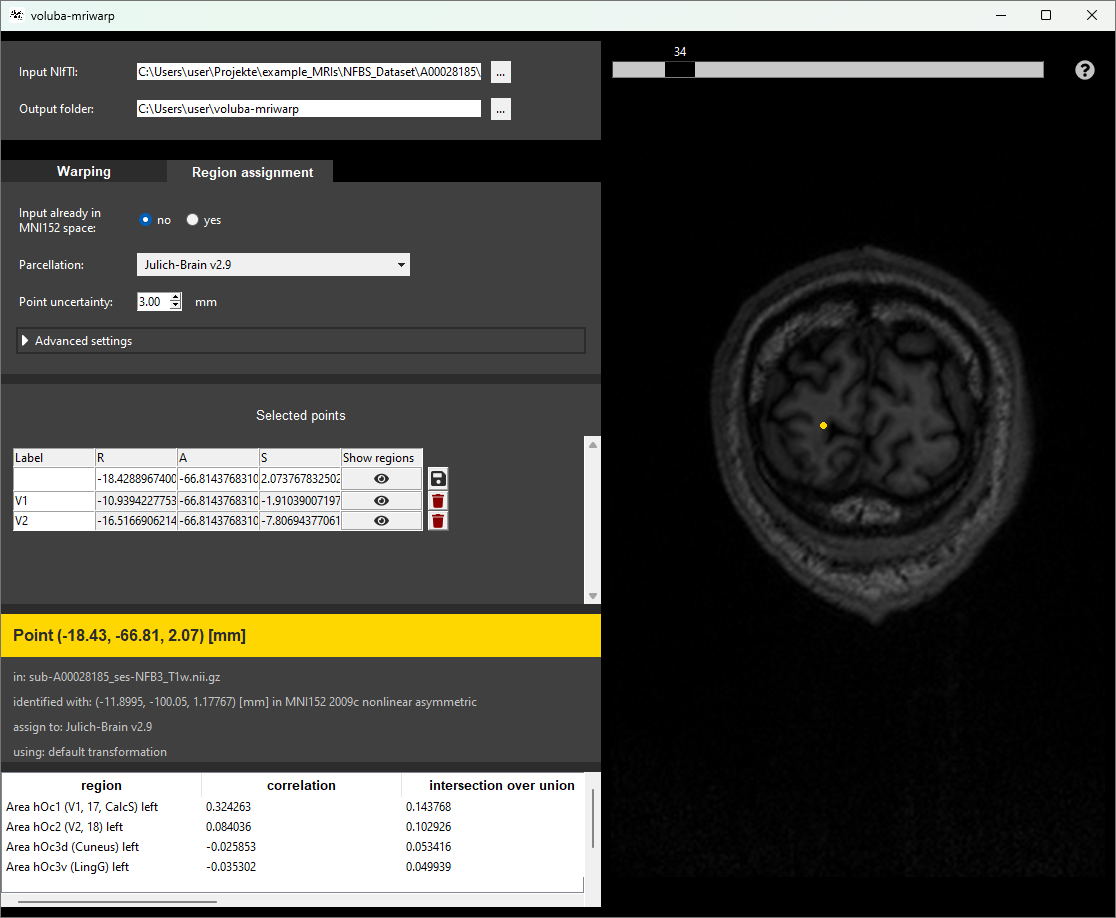
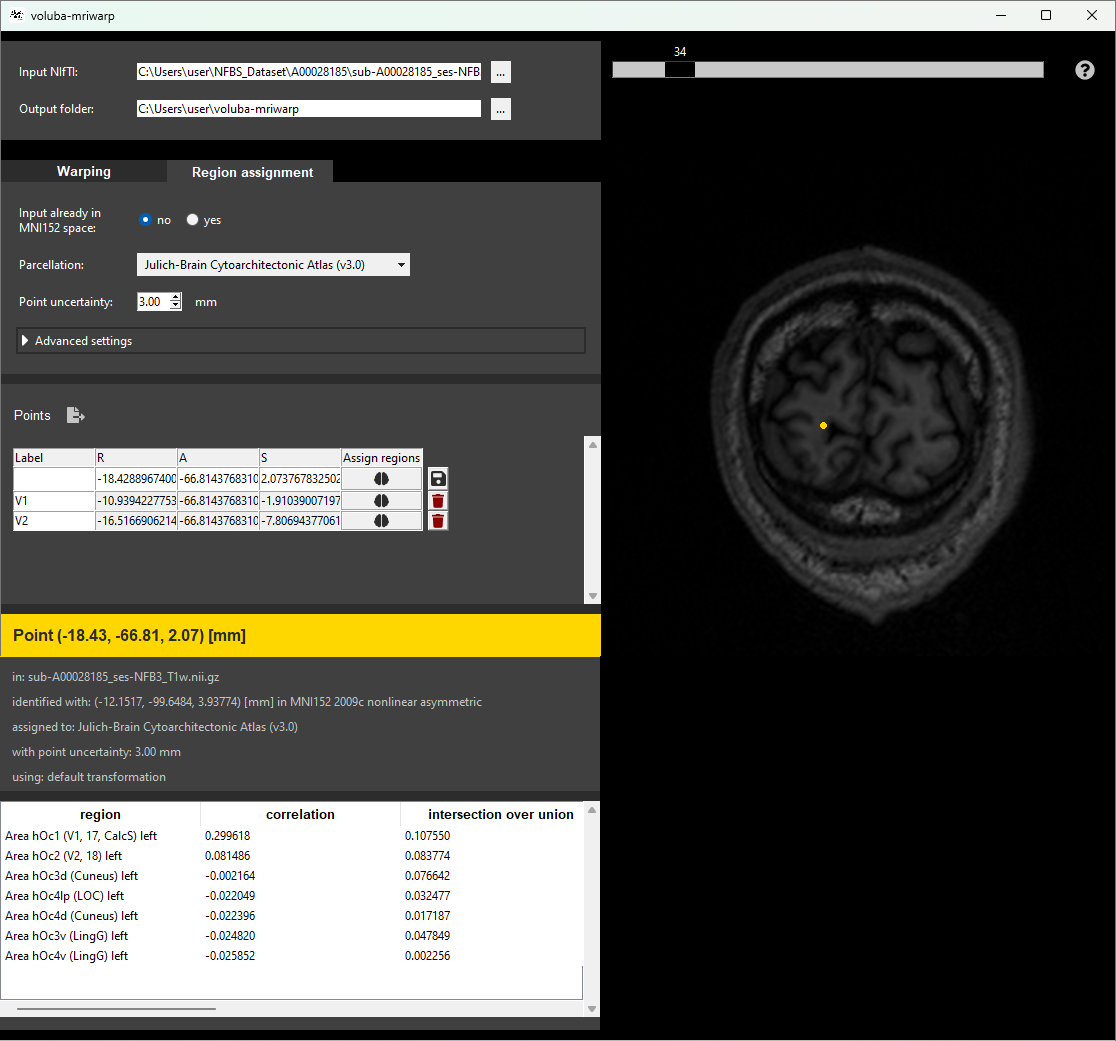
Update documentation

diff --git a/docs/tutorial.md b/docs/tutorial.md
@@ -4,7 +4,7 @@ In this tutorial, you will warp an example MRI scan to [MNI ICBM 152 2009c Nonli
 
 ## Get the example dataset
 
-Let's start the tutorial by downloading an example dataset. We use a sample from the publicly available [NFBS Skull-Stripped Repository](http://preprocessed-connectomes-project.org/NFB_skullstripped/) and choose the T1-weighted MRI scan `sub-A00028185_ses-NFB3_T1w.nii.gz` of subject `A00028185`. This scan contains the subject's whole brain including the skull. 
+Let's start the tutorial by downloading an example dataset. We use a sample from the publicly available [NFBS Skull-Stripped Repository](http://preprocessed-connectomes-project.org/NFB_skullstripped/) and choose the T1-weighted MRI scan `sub-A00028185_ses-NFB3_T1w.nii.gz` of subject `A00028185`. This scan contains the subject's whole-brain including the skull. 
 
 * Download the NFBS skull-stripped images from [here](http://preprocessed-connectomes-project.org/NFB_skullstripped/).
 * Unpack the .tar.gz archive.
@@ -16,7 +16,7 @@ Let's start the tutorial by downloading an example dataset. We use a sample from
 
 To be able to perform an analysis in the anatomical context of the atlas we first need to register the input MRI scan to the standardized MNI152 space.
 
-* Launch _voluba-mriwarp_
+* Launch _voluba-mriwarp_.
 * Choose `<path_to_dataset>/NFBS_Dataset/A00028185/sub-A00028185_ses-NFB3_T1w.nii.gz` as <mark>Input NIfTI</mark>.  
 You can choose this file from the file explorer by clicking <mark>...</mark>.
 * Set the <mark>Output folder</mark> to the directory where you want the warping results to be saved. We keep the default location `<path_to_your_home>/voluba-mriwarp`.
@@ -30,11 +30,11 @@ You can choose this file from the file explorer by clicking <mark>...</mark>.
 
 ## Analyze a point in the atlas context
 
-After successful warping _voluba-mriwarp_ can now use the resulting transformation to warp points of the input MRI scan to MNI152 space. In this way, it can assign brain regions of the EBRAINS Human Atlas to these points through the siibra toolsuite. 
+After successful warping _voluba-mriwarp_ can now use the resulting transformation to warp points of the input MRI scan to MNI152 space. In this way, it can assign brain regions of the EBRAINS Human Brain Atlas to these points through the siibra toolsuite. 
 
 * Switch to the <mark>Analysis</mark> tab.
 * Keep the setting for <mark>Input already in MNI152 space</mark> as the example MRI scan shows the subject in input space and not in MNI152 space.
-* Leave the parcellation as is because we want to assign the point to brain regions of the `Julich-Brain Cytoarchitectonic Atlas (v3.0)`.
+* Leave the parcellation as is because we want to assign the point to brain regions of the [Julich-Brain Cytoarchitectonic Atlas (v3.0)](https://search.kg.ebrains.eu/instances/7ad727a1-537d-4f80-a69b-ac8b184a823c).
 * Set the <mark>Point uncertainty</mark> to 3 mm. The reason for this is that coordinates are typically not exact but have several millimeters of uncertainty (especially after warping).
     
     ![image](images/tutorial_settings.png)
@@ -53,16 +53,23 @@ After successful warping _voluba-mriwarp_ can now use the resulting transformati
 
 ## Use the results
 
+Now that we investigated which brain regions the selected point correlates with, we can perform further analysis based on these regions. Besides getting a quick overview with [siibra-explorer](https://atlases.ebrains.eu/viewer/#/) _voluba-mriwarp_ offers to export the extended analysis to a PDF report.
+
+**Quick overview**  
+
 * Double-click a row in the table to open the according region in a browser window in siibra-explorer. This allows you to get a quick overview of more details about an assigned region and linked multimodal data features. 
 
     ![image](images/hOc1.png)
 <br/><br/>
 
-* Click on the save button next to the brain icon to note the point for export and thus retain your analysis performed with _voluba-mriwarp_.
-* Click ![icon](images/tutorial_export_btn.png) next to <mark>Points</mark> to export your analysis to a PDF report for all saved points. 
+**Detailed report**
+
+* Go back to _voluba_mriwarp_.
+* Click on the save button next to the brain icon in the <mark>Points</mark> table to note the selected point for further analysis and PDF export.
+* Select ![icon](images/tutorial_export_btn.png) next to <mark>Points</mark> to define the analysis and create the PDF report for all saved points. 
 * Keep the <mark>PDF location</mark> as is to save the PDF to the output folder. If you would like to choose a different location, click on <mark>...</mark> to select a folder and filename.
-* Set the filter to `input containedness >= 0.5` as we are only interested in regions in which the saved point is likely contained. This will only include brain regions to the report that fulfill the requirement for the assignment. 
-* Choose between different multimodal data features that complement your analysis. We are interested in cell densities, connectivity and receptor densities. For receptor density you need to select specific receptors and for connectivity a cohort is required. For this tutorial, we choose `GABAA` and `GABAB` as well as the `1000BRAINS` study.
+* Set the filter to `input containedness >= 0.5` as, in this tutorial, we are only interested in regions in which the saved point is likely contained. This will only include brain regions to the report that fulfill the requirement for the assignment. Feel free to adjust the filter at your will.
+* Choose between different multimodal data features that complement your analysis. Here, we are interested in cell densities, connectivity and receptor densities. For receptor density you need to select specific receptors and for connectivity a cohort is required. For this tutorial, we choose `GABAA` and `GABAB` as well as the `1000BRAINS` study.
 * Use the <mark>Export</mark> button to initialize the creation of the PDF report.
 
     ![image](images/tutorial_export.png)

diff --git a/docs/index.md b/docs/index.md
@@ -4,16 +4,16 @@
 
 voluba (**Volu**metric **B**rain **A**nchoring) offers tools to connect volumetric imaging data to multilevel atlases and in this way makes it accessible for analysis with the siibra toolsuite.
 
-_voluba-mriwarp_ is a desktop application that integrates whole brain T1-weighted MRI scans into the anatomical context of the [EBRAINS Human Brain Atlas](https://www.ebrains.eu/tools/human-brain-atlas). It incorporates all required components like skull stripping, registration to [MNI ICBM 152 2009c Nonlinear Asymmetric space](https://www.bic.mni.mcgill.ca/ServicesAtlases/ICBM152NLin2009), and detailed analysis with the siibra toolsuite. The corresponding functionalities are provided via open-source tools like [HD-BET](https://github.com/MIC-DKFZ/HD-BET)[^1], [ANTs](http://stnava.github.io/ANTs/) and [siibra-python](https://github.com/FZJ-INM1-BDA/siibra-python). _voluba-mriwarp_ is primarily designed for Windows 10 but can also be executed on Linux.
-
-Warping brain data to a standardized space like MNI152 enables anchoring of whole brain MRI scans to atlas volumes like [BigBrain](https://julich-brain-atlas.de/atlas/bigbrain). However, reasonable registration requires various steps that need optimization effort. _voluba-mriwarp_ aims to simplify this workflow. With this application, you avoid installing multiple tools and tweaking parameters for a proper registration result. Instead, _voluba-mriwarp_ is an easy-to-install and easy-to-use tool combining all necessary steps into one pipeline. 
+_voluba-mriwarp_ is a desktop application that integrates whole-brain T1-weighted MRI scans into the anatomical context of the [EBRAINS Human Brain Atlas](https://www.ebrains.eu/tools/human-brain-atlas). It incorporates all required components like skull stripping, registration to [MNI ICBM 152 2009c Nonlinear Asymmetric space](https://www.bic.mni.mcgill.ca/ServicesAtlases/ICBM152NLin2009), and detailed analysis with the siibra toolsuite. The corresponding functionalities are provided via open-source tools like [HD-BET](https://github.com/MIC-DKFZ/HD-BET)[^1], [ANTs](http://stnava.github.io/ANTs/) and [siibra-python](https://github.com/FZJ-INM1-BDA/siibra-python). _voluba-mriwarp_ is primarily designed for Windows 10 but can also be executed on Linux.
 
 <div class="admonition info">
 <p class="admonition-title">Your data remains on your computer</p>
 <p>We designed <em>voluba-mriwarp</em> as a desktop application. Therefore, the input MRI dataset will not be uploaded to any online services. It remains only on your local computer.</p>
 </div>
 
-_voluba-mriwarp_ applies a set of predefined parameters to remove the skull and warp the input brain scan to MNI152 space. You can utilize the warping results in _voluba-mriwarp_ to interactively make a probabilistic assignment of coordinates in the input space to brain regions of the [EBRAINS Human Brain Atlas](https://www.ebrains.eu/tools/human-brain-atlas). Hence, you can estimate the probability of a brain region occurring at the selected coordinate. To explore even more information about a cytoarchitectonic area, you can access [siibra-explorer](https://atlases.ebrains.eu/viewer/human) through the application.
+Warping brain data to a standardized space like MNI152 enables anchoring of whole-brain MRI scans to atlas volumes and therefore facilitates analysis in a detailed anatomical context. However, reasonable registration requires various steps that need optimization effort. _voluba-mriwarp_ aims to simplify this workflow. With this application, you avoid installing multiple tools and tweaking parameters for a proper registration result. Instead, _voluba-mriwarp_ is an easy-to-install and easy-to-use tool combining all necessary steps into one pipeline. 
+
+_voluba-mriwarp_ applies a set of predefined parameters to remove the skull and warp the input brain scan to MNI152 space. You can utilize the warping results in _voluba-mriwarp_ to interactively analyze points by making a probabilistic assignment of coordinates in the input space to brain regions of the [EBRAINS Human Brain Atlas](https://www.ebrains.eu/tools/human-brain-atlas). To get an overview of more information about a brain region, you can access [siibra-explorer](https://atlases.ebrains.eu/viewer/human) through the application. For further analysis, _voluba-mriwarp_ offers to export the anatomical assignments together with linked multimodal data features like receptor densities, cell distributions or brain connectivity.
 
 ![image_centered](images/teaser2.png)
 

diff --git a/docs/workflow.md b/docs/workflow.md
@@ -1,6 +1,6 @@
 # General workflow
 
-_voluba-mriwarp_ consists of two panels. The side panel on the left is for [warping](warping.md) the input T1-weighted MRI scan to MNI152 space and displaying the results of the [analysis in the atlas context](analysis.md). The [viewer](viewer.md) on the right side is for displaying and inspecting the input MRI scan.
+_voluba-mriwarp_ consists of two panels. The side panel on the left is for [warping](warping.md) the input T1-weighted MRI scan to [MNI ICBM 152 2009c Nonlinear Asymmetric space](https://www.bic.mni.mcgill.ca/ServicesAtlases/ICBM152NLin2009) and displaying the results of the [analysis in the atlas context](analysis.md). The [viewer](viewer.md) on the right side is for displaying and inspecting the input MRI scan.
 
 !!! info
     When running _voluba-mriwarp_ for the first time, the startup may take a few minutes as siibra components need to be fetched.
@@ -10,8 +10,8 @@ The general workflow for _voluba-mriwarp_ can be summarized as follows:
 ![icon](images/1.png) Choose an **input MRI scan**.  
 ![icon](images/2.png) Choose an **output folder** for the warping results.  
 ![icon](images/3.png) **Warp** the input MRI to MNI152 space.  
-![icon](images/4.png) **Click or enter a coordinate** to perform an analysis in the atlas context.  
-![icon](images/5.png) Get a **more detailed overview** about a specific region in [siibra-explorer](https://atlases.ebrains.eu/viewer/go/human).  
-![icon](images/6.png) **Export** assigned regions together with linked data features to a PDF report for extended analysis.
+![icon](images/4.png) **Click or enter a coordinate** to perform an analysis in the atlas context based on region assignment.  
+![icon](images/5.png) Get a **quick overview** about an assigned brain region in [siibra-explorer](https://atlases.ebrains.eu/viewer/go/human).  
+![icon](images/6.png) **Export** assigned brain regions together with linked data features to a PDF report for extended analysis.
 
 ![image_centered](images/workflow4.png)

diff --git a/docs/warping.md b/docs/warping.md
@@ -1,6 +1,6 @@
 # Registration to MNI152 space
 
-In general, the goal of warping is to align an image in 3D space. In _voluba-mriwarp_ a whole brain structural MRI scan is warped to MNI ICBM 152 2009c Nonlinear Asymmetric space using nonlinear registration methods.
+In general, the goal of warping is to align an image in 3D space. In _voluba-mriwarp_ a whole-brain structural MRI scan is warped to [MNI ICBM 152 2009c Nonlinear Asymmetric space](https://www.bic.mni.mcgill.ca/ServicesAtlases/ICBM152NLin2009) using nonlinear registration methods.
 
 **Why MNI ICBM 152 2009c Nonlinear Asymmetric space?**  
 Registration to this standardized space enables anchoring the input scan to the according atlas template in the [EBRAINS Human Brain Atlas](https://www.ebrains.eu/tools/human-brain-atlas). This allows _voluba_mriwarp_ to [analyze](analysis.md) the input scan in the detailed anatomical context of the atlas through the siibra toolsuite.

diff --git a/docs/viewer.md b/docs/viewer.md
@@ -5,7 +5,7 @@ Initially, the viewer displays the MNI152 template. To load an MRI scan into the
 ![image_centered](images/data_menu.png)
 
 ![icon](images/1.png) **Select the input MRI scan to inspect.**  
-The <mark>Input NIfTI</mark> has to be in NIfTI format (.nii or .nii.gz) and has to contain the whole brain of the subject. You can either manually type in the path to the file or you can choose the input MRI scan in the file explorer by clicking <mark>...</mark>.
+The <mark>Input NIfTI</mark> has to be a whole-brain T1-weighted MRI scan in NIfTI format (.nii or .nii.gz). You can either manually type in the path to the file or you can choose the input MRI scan in the file explorer by clicking <mark>...</mark>.
 
 In the viewer, you can move the MRI scan around, zoom in/out and view different slices of the scan.
 

diff --git a/docs/analysis.md b/docs/analysis.md
@@ -46,7 +46,7 @@ In the advanced settings you can specify a particular transformation file that i
 
 ## Point selection
 
-All points shown in _voluba-mriwarp_ are given in RAS physical space. To select a location, you can either double-click the according position in the interactive viewer or manually type in the coordinates in the first row of the `Points` table.
+All points shown in _voluba-mriwarp_ are given in RAS physical space. To select a location, you can either double-click the according position in the interactive viewer or manually type in the coordinates in the first row of the <mark>Points</mark> table.
 
 ![image_centered](images/points.png)
 

diff --git a/docs/acknowledgement.md b/docs/acknowledgement.md
@@ -5,12 +5,6 @@ It has been designed for the [EBRAINS](https://ebrains.eu) infrastructure for br
 
 _voluba-mriwarp_ has received funding from the European Union’s Horizon 2020 Framework Programme for Research and Innovation under the Specific Grant Agreement No. 945539 (Human Brain Project SGA3).
 
-[![logo_centered](images/FZJ_logo.png)](https://www.fz-juelich.de/en)
-
-[![logo](images/EBRAINS_logo.png)](https://ebrains.eu)
-[![logo](images/HBP_logo.png)](https://humanbrainproject.eu/en/)
-![logo](images/EU_logo.jpg)
-
 <h1>References</h1>
 
 * [HD-BET](https://github.com/MIC-DKFZ/HD-BET)[^1] (skull removal)

diff --git a/docs/installation.md b/docs/installation.md
@@ -22,7 +22,7 @@ Run `Uninstall` from the installation directory or the `voluba-mriwarp` folder i
 ### Requirements
 
 * Python 3.8 or higher
-* [ANTs](https://github.com/ANTsX/ANTs/wiki/Compiling-ANTs-on-Linux-and-Mac-OS) <span style="color:red">**TODO** Specify exact ANTs version, if Linux EXE won't work</span>  
+* [ANTs Eotapinoma](https://github.com/ANTsX/ANTs/releases/tag/v2.4.4)
 
 ### Install voluba-mriwarp
 
